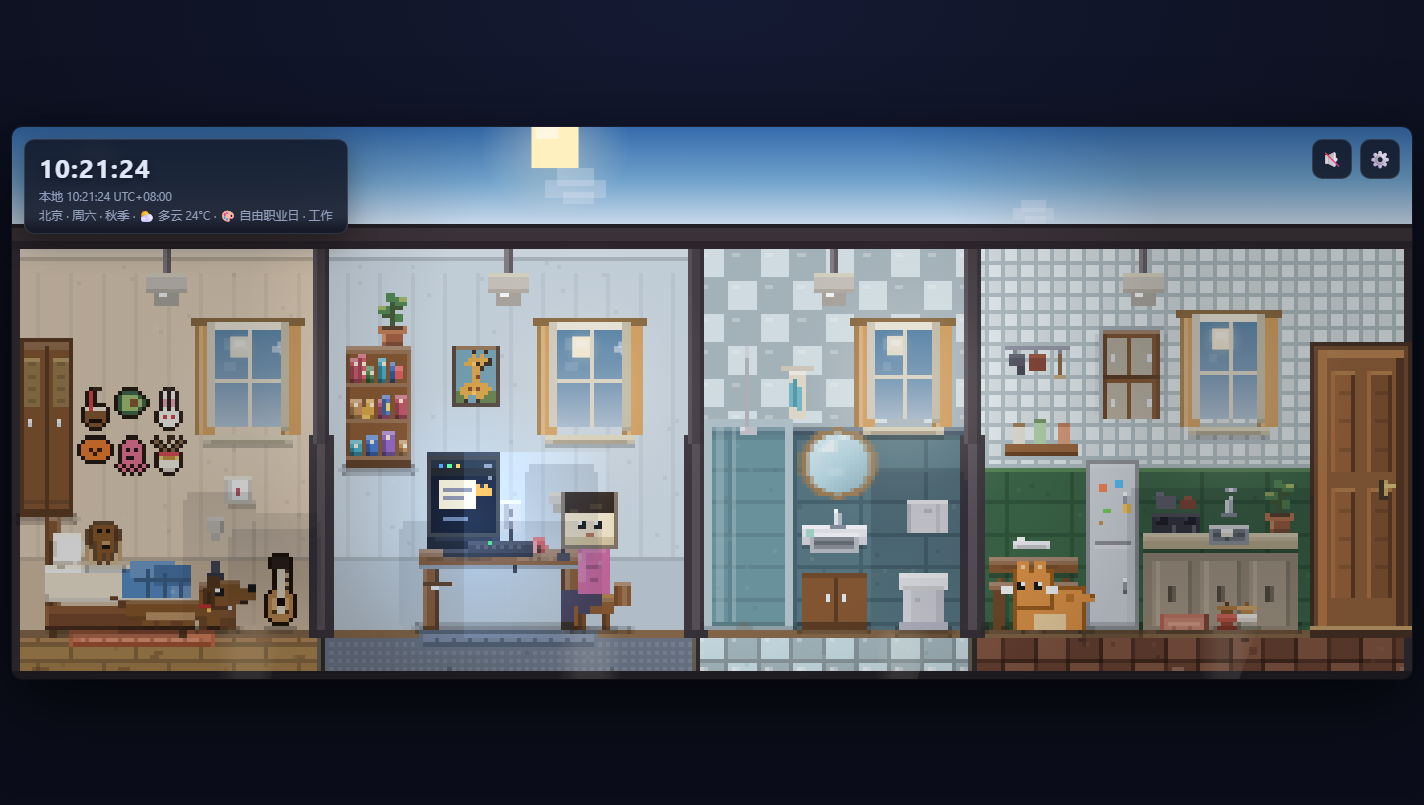
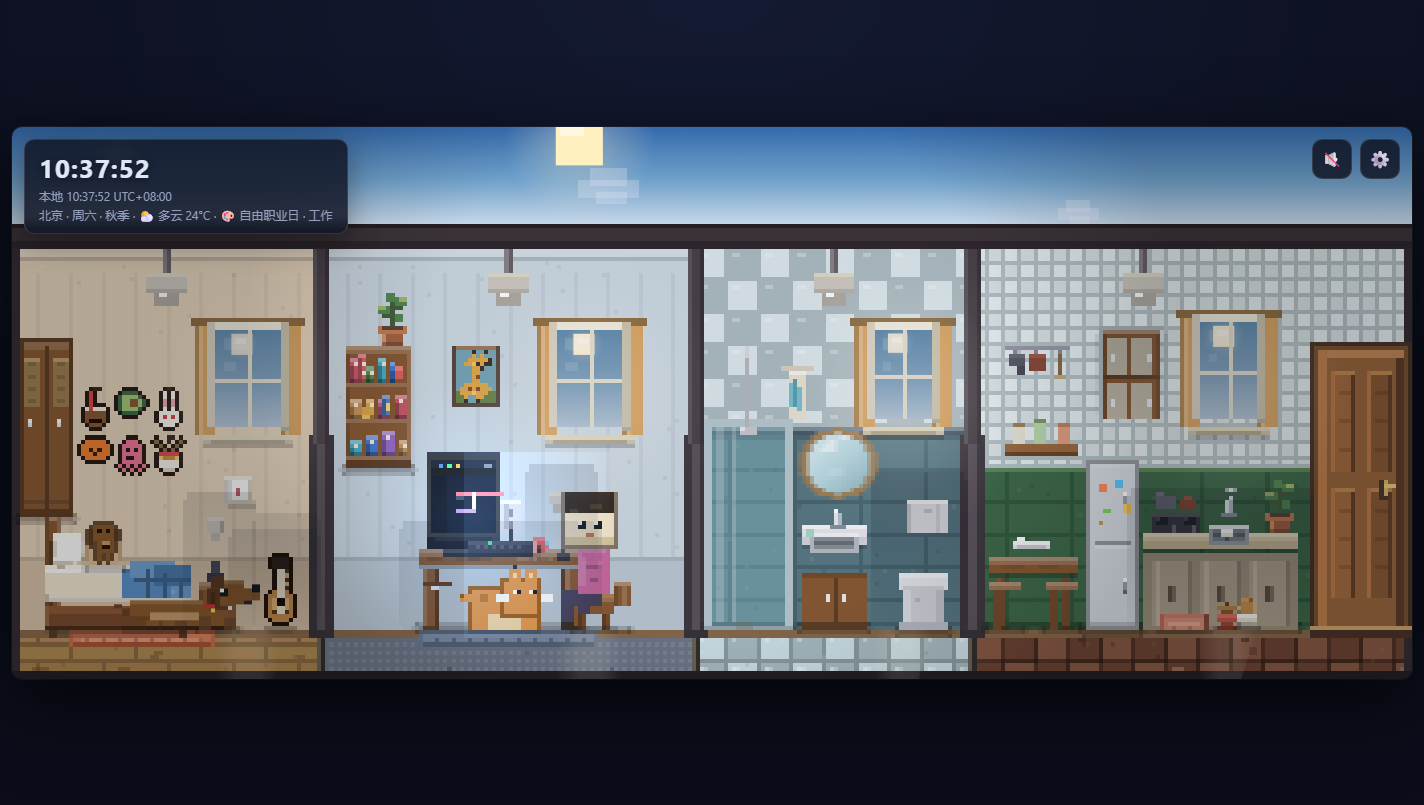
chore: record the fourth production deployment
Garden plushies are live. Production verification: four entries reachable,
/portrait/js/scene.js identical to the committed file and containing
GARDEN_TOYS, multi-viewport browser run ALL PASS against the production
domain, classic entry check ALL PASS, plus a production screenshot of the
garden.

diff --git a/handoff.md b/handoff.md
@@ -8,7 +8,7 @@
 
 - 当前分支：`master`；本轮改动由多次提交组成：横版入口脚本路径修复、竖版点击范围收束与交互迁移、第二批 6 项竖版需求（提交顺序与哈希以 `git log` 为准）。
 - GitHub：`https://github.com/northernmelody/pixel-room.git`。
-- Vercel Production：`https://pixel-room-eight.vercel.app`，本轮第三次部署（deployment `https://pixel-room-11tvoclyn-northernmelodys-projects.vercel.app`，`READY`），线上包含横版入口修复、竖版点击范围收束、第二批 6 项需求与左上角「当前行为」说明条。
+- Vercel Production：`https://pixel-room-eight.vercel.app`，本轮第四次部署（deployment `https://pixel-room-4p9q77spi-northernmelodys-projects.vercel.app`，`READY`），线上包含横版入口修复、竖版点击范围收束、第二批 6 项需求、左上角「当前行为」说明条与庭院两只像素玩偶。
 - 主入口现在是竖版小屋：根路径会进入 `/portrait/`；设置页为 `/setting/`。
 - 原横版页面已迁移到次级入口：`/classic/`。横版原始脚本、样式和资源仍复用仓库根目录的 `js/`、`css/`、`assets/`。
 - 竖版已完成自主作息、宠物、庭院、灯光、信件、天气、音频入口、电脑频道和响应式入口验证。
@@ -32,7 +32,7 @@ node portrait/tools/viewport-check.cjs    # 多视口回归（320/375/390/430/14
 
 当前结果：契约测试通过（含点击范围白名单 16 目标、衣柜/冰箱随机内容、姿势回应、猫摸链/狗跟随、吉他拒绝规则与洗漱豁免、通话当前句）、Node 语法检查通过、原横版 23 个受保护文件未发生内容变化（哈希已随横版修复与改名刷新）。竖版真实浏览器回归 14 项 ALL PASS、页面异常 0（含说明条显示当前行为且与生活状态一致），证据见 `portrait/artifacts/browser-check.log`；多视口回归 5 档 ALL PASS，截图 `_shots/viewport-*.png`；功能截图 `_shots/portrait-browser-check.png`、`_shots/still-here-shower.png`、`still-here-wardrobe.png`、`still-here-fridge.png`、`still-here-reaction.png`、`still-here-cat.png`、`still-here-dog.png`。横版入口真实浏览器验证 ALL PASS 见 `_shots/classic-entry-check.png`（`node _tools/check-classic.cjs`，覆盖 `PixelRoom.UI`/`LifeUI` 载入、时钟走动、画布非空、设置面板开合与零页面错误）。旧版横向坐标冒烟脚本中仍有 3 个已知不等价失败，详见 `portrait/artifacts/legacy-smokes.json`。`portrait/artifacts/s6-browser-results.txt` 早于星期档案改造，已过时。
 
-线上验收（部署后）：`/`、`/portrait/`、`/classic/`、`/setting/`、`/portrait/js/main.js`、`/portrait/style.css` 全部返回 200；`main.js`、`style.css`、`portrait/index.html`、`scene.js` 的线上内容与提交内容逐字节一致（LF 归一化）。生产域名真实浏览器验收：多视口回归 5 档 ALL PASS，线上说明条显示「秋日 · 阳光正好 · 走到电脑前」且时钟在画面内、零页面错误（`node portrait/tools/viewport-check.cjs https://pixel-room-eight.vercel.app/portrait/?d=2026-09-17&t=16:30`）；横版入口 ALL PASS，截图 `_shots/classic-prod-check.png`。
+线上验收（部署后）：`/`、`/portrait/`、`/classic/`、`/setting/`、`/portrait/js/main.js`、`/portrait/style.css`、`/portrait/js/scene.js` 全部返回 200；`main.js`、`style.css`、`scene.js`（含 `GARDEN_TOYS`）等线上内容与提交内容逐字节一致（LF 归一化）。生产域名真实浏览器验收：多视口回归 5 档 ALL PASS，线上说明条显示「秋日 · 阳光正好 · 走到电脑前」、时钟在画面内、零页面错误（`node portrait/tools/viewport-check.cjs https://pixel-room-eight.vercel.app/portrait/?d=2026-09-17&t=16:30`）；横版入口 ALL PASS；庭院两只玩偶的线上截图见 `_shots/garden-production.png`，横版线上截图见 `_shots/classic-prod-check.png`。
 
 ### 入口约定
 
